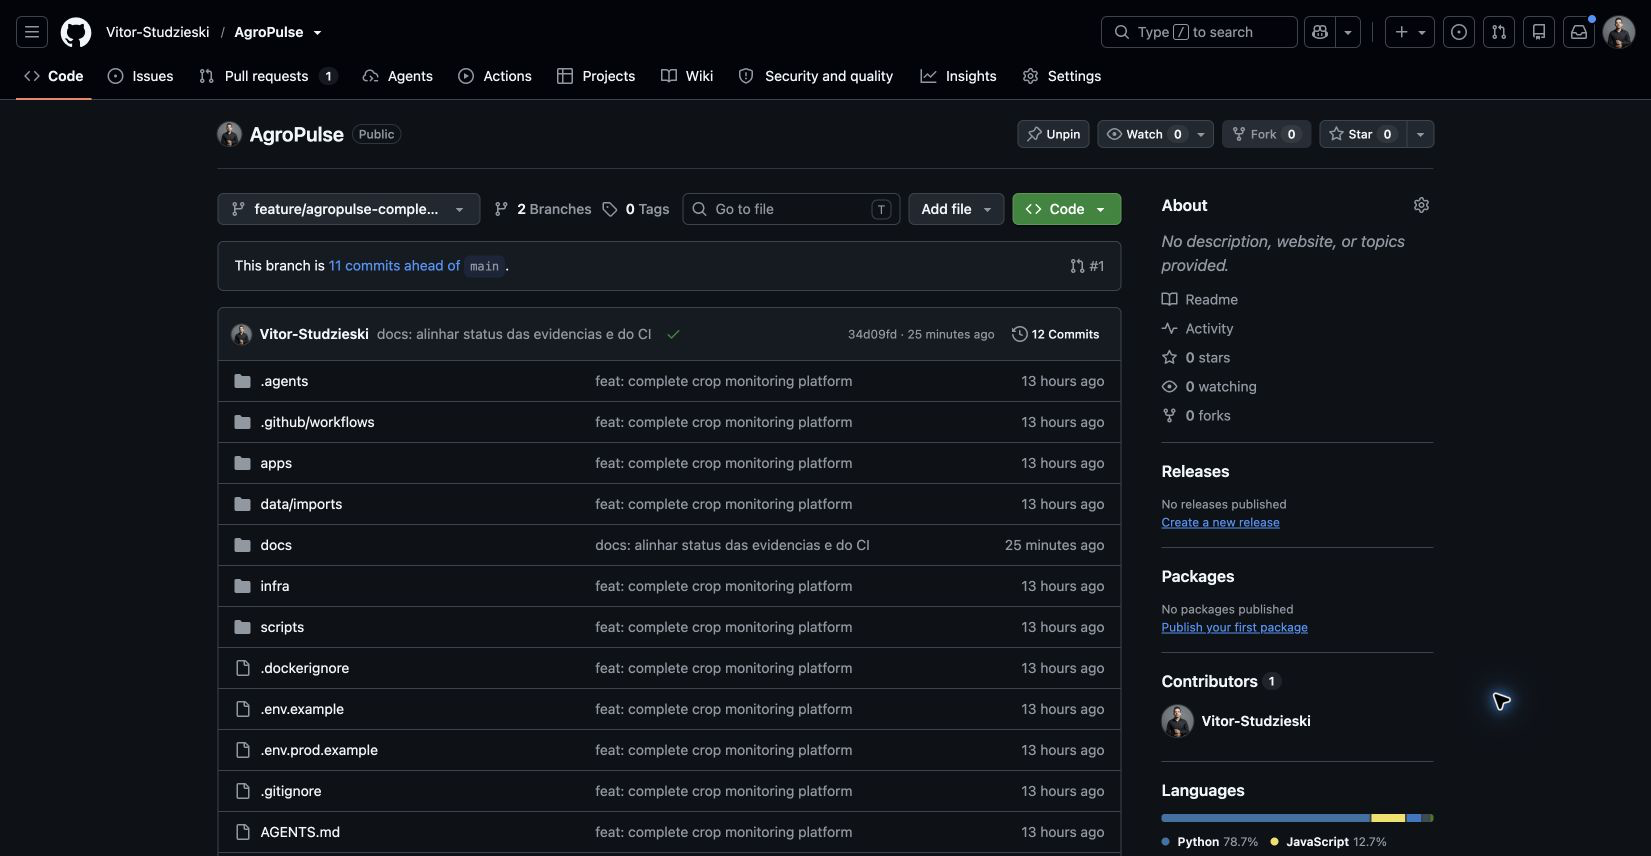
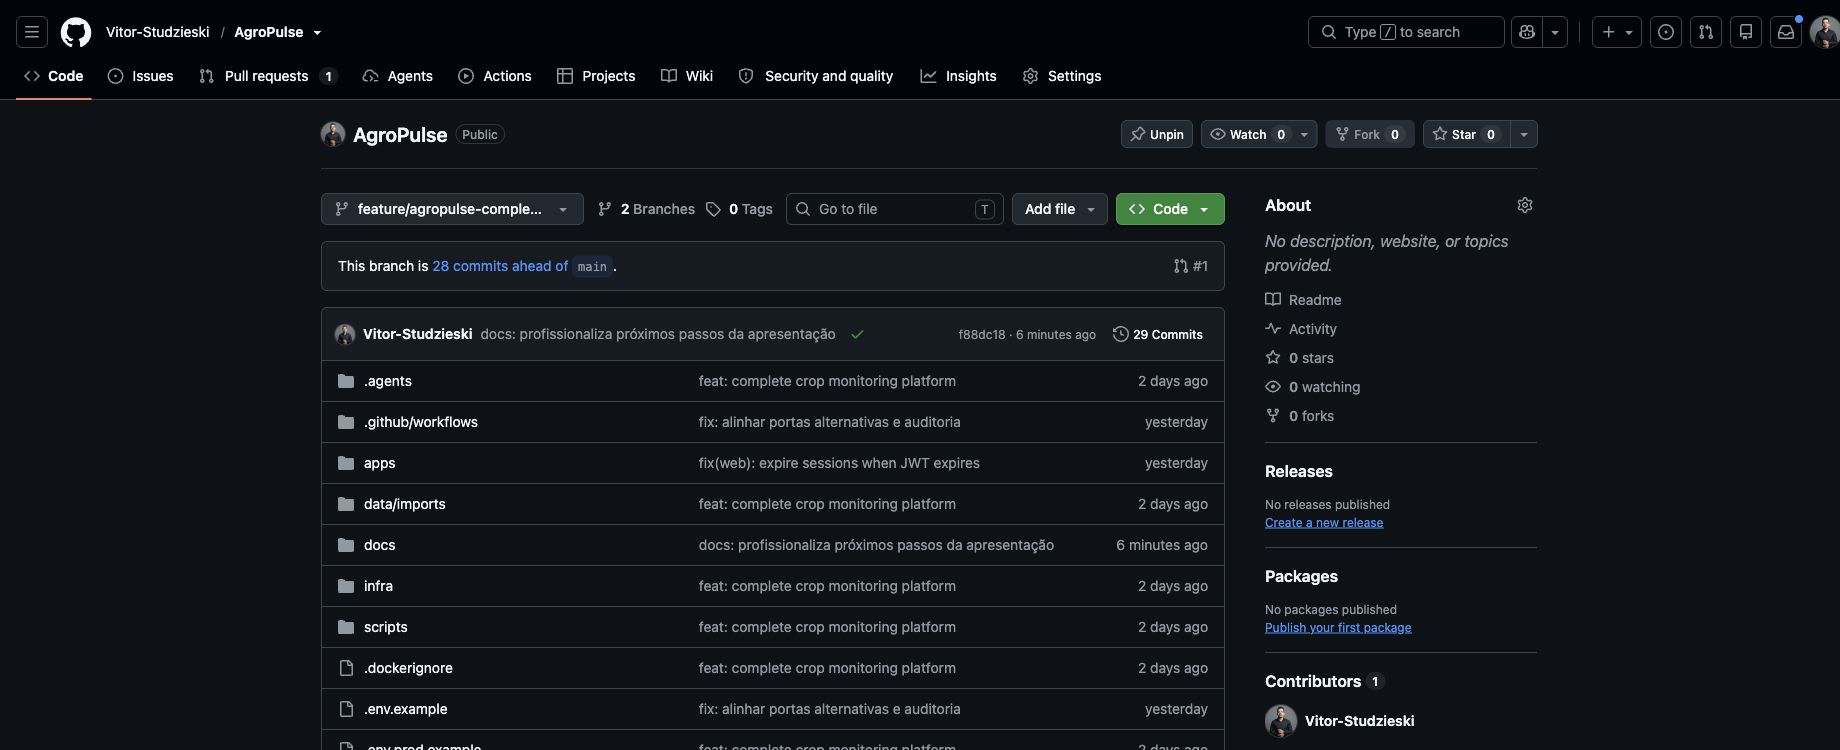
docs: atualiza evidencias atuais do repositorio e CI

diff --git a/docs/evidencias/README.md b/docs/evidencias/README.md
@@ -4,7 +4,7 @@ Salve as capturas listadas no apêndice A de [RELATORIO-MODELO.md](../RELATORIO-
 
 Use apenas dados de demonstração nos prints. Não inclua senhas, tokens, strings de conexão, dados pessoais ou credenciais de serviços. Para GitHub Actions, capture o resultado real depois que o workflow remoto for executado; não produza uma imagem ilustrativa no lugar do check.
 
-Das 28 capturas previstas no apêndice A, os 28 arquivos numerados estão salvos e revisados. As capturas 01–09 foram refeitas como captura direta do viewport do Chrome, sem moldura do navegador. As telas 01–08 vêm da interface da demonstração isolada, mapeada nesta sessão em `http://localhost:34100/`; para reproduzir em portas isoladas, use `WEB_PORT=34100 API_PORT=34101 MONGO_PORT=34102 make demo`. O Compose deriva a URL da API e a origem CORS dessas portas. A captura 09 usa `http://localhost:8000/docs#/infra/health_health_get` e registra a resposta HTTP 200 (`{"status":"ok"}`) de `GET /health`. A contagem na captura 15 é 21.006 leituras no instante da consulta; como o simulador continua ativo, o valor muda durante a execução. A captura 18 confirma `IXSCAN` pelo índice `crop_1`, e a captura 26 mostra a coleção `field_daily_stats` com 24 documentos agregados. `painel-visao-geral.png` é a captura complementar do painel: mostra o histórico anual 2024 da estação INMET A763/Marília a 27,8 km do campus e o ranking municipal do IBGE. As telas de Safras e Operações mostram estados vazios reais da demonstração; não foram criados registros apenas para preencher capturas. A captura 28 registra visualmente o run #23 do commit anterior `34d09fd`; consulte o PR #1 para o status atual do GitHub Actions. Os RAs obrigatórios devem ser inseridos no relatório antes da entrega. A data da apresentação pode ser incluída no roteiro quando for definida; o guia não a exige na capa.
+Das 28 capturas previstas no apêndice A, os 28 arquivos numerados estão salvos e revisados. As capturas 01–09 foram refeitas como captura direta do viewport do Chrome, sem moldura do navegador. As telas 01–08 vêm da interface da demonstração isolada, mapeada nesta sessão em `http://localhost:34100/`; para reproduzir em portas isoladas, use `WEB_PORT=34100 API_PORT=34101 MONGO_PORT=34102 make demo`. O Compose deriva a URL da API e a origem CORS dessas portas. A captura 09 usa `http://localhost:8000/docs#/infra/health_health_get` e registra a resposta HTTP 200 (`{"status":"ok"}`) de `GET /health`. A contagem na captura 15 é 21.006 leituras no instante da consulta; como o simulador continua ativo, o valor muda durante a execução. A captura 18 confirma `IXSCAN` pelo índice `crop_1`, e a captura 26 mostra a coleção `field_daily_stats` com 24 documentos agregados. `painel-visao-geral.png` é a captura complementar do painel: mostra o histórico anual 2024 da estação INMET A763/Marília a 27,8 km do campus e o ranking municipal do IBGE. As telas de Safras e Operações mostram estados vazios reais da demonstração; não foram criados registros apenas para preencher capturas. As capturas 27 e 28 foram atualizadas no Chrome: a 27 mostra a branch pública no commit `f88dc18`, e a 28 mostra os cinco jobs aprovados no run #57 desse commit. Consulte o PR #1 para o status mais recente do GitHub Actions. Os RAs obrigatórios devem ser inseridos no relatório antes da entrega. A data da apresentação pode ser incluída no roteiro quando for definida; o guia não a exige na capa.
 
 ## Conteúdo de cada captura
 
@@ -21,6 +21,6 @@ Use esta lista para conferir o enquadramento antes de marcar um item como conclu
 | `19-geointersects` | Compass mongosh: consultar `fields.boundary` com `$geoIntersects` no ponto do campus `[-50.1994, -22.1110]`; mostrar o talhão de demonstração retornado. |
 | `20-agregacao-media-diaria` | Compass mongosh: média diária de `soil_moisture` agrupada por talhão e dia, conforme consulta em `docs/MODELO-DADOS.md`. |
 | `21-compass-colecoes`, `22-documento-fields`, `23-documento-sensor-reading`, `24-indices-fields`, `25-validacao-farms`, `26-field-daily-stats` | Compass: lista de coleções; documento de `fields`; documento em `sensor_readings`; índices de `fields`; validação de `farms`; documento agregado em `field_daily_stats`. `make demo` executa o rollup inicial. |
-| `27-github-repo`, `28-github-actions-verde` | Branch público `feature/agropulse-completion` e PR #1 aberto. A captura 28 registra os cinco jobs aprovados no run #23 do commit anterior `34d09fd`, portanto é evidência histórica. Consulte o PR para o status atual dos jobs de API, workers, web, schema e Compose. O PR permanece aberto para revisão, sem merge. |
+| `27-github-repo`, `28-github-actions-verde` | A captura 27 mostra a branch pública `feature/agropulse-completion` no commit `f88dc18`. A captura 28 mostra os cinco jobs aprovados no run #57 desse commit. O PR #1 permanece aberto, sem merge; consulte-o para o status do HEAD mais recente. |
 
 Para os itens 15–20, mantenha comando e resposta na mesma captura. Não mostre tokens, senhas, connection strings, dados pessoais ou documentos fora da demonstração. Os itens 15–28 foram conferidos visualmente.

diff --git a/docs/REQUISITOS.md b/docs/REQUISITOS.md
@@ -56,7 +56,7 @@ Esta matriz converte os requisitos do guia de engenharia (seções 2–14) em ev
 - Alertas integrados em stack isolada: uma regra temporária aplicada a um talhão com leituras existentes gerou alerta no worker; a API resolveu e removeu o alerta, e a regra foi apagada.
 - Revalidação de `make demo` em projeto Compose temporário com portas alternativas: API autenticada respondeu 200 para perfil, fazendas, talhões, séries, estações, clima, ranking, leituras, safras, operações, sensores, regras e alertas. A página web respondeu 200, o bundle incluiu a URL da API na porta alternativa e o CORS aceitou a origem da interface. O Mongo registrou 1 fazenda, 3 talhões, 6 sensores, 12.840 leituras de sensores, 1 estação INMET, 8.784 observações horárias, 1.556 registros PAM/SP e 24 resumos. O seed, os importadores e o rollup foram executados novamente; a segunda execução ignorou o backfill existente. O volume e os containers descartáveis foram removidos.
 - Revalidação ponta a ponta em 2026-11-01, com `make demo` em um projeto Docker novo e portas alternativas: o seed criou 3 talhões e 6 sensores; o backfill inseriu 12.096 leituras; os importadores carregaram 8.784 observações INMET de 2024 e 1.556 registros IBGE/PAM de 2023; o rollup gerou 24 resumos diários. API e interface responderam HTTP 200. Com conta aleatória temporária, foram exercitados o CRUD autenticado completo, cálculo de área/centroide, leitura ao vivo do simulador, série horária, clima de 2024, ranking de 10 municípios e geração de alerta pelo worker; webhook permaneceu vazio. Conta, containers e volume temporários foram removidos, preservando a stack principal.
-- O workflow do GitHub Actions executa em pushes e pull requests; o status do HEAD e os resultados atuais dos cinco jobs são consultados no [PR #1](https://github.com/Vitor-Studzieski/AgroPulse/pull/1). A captura 28 mantém o registro visual histórico do run #23, no commit anterior `34d09fd`.
+- O workflow do GitHub Actions executa em pushes e pull requests; o status do HEAD e os resultados atuais dos cinco jobs são consultados no [PR #1](https://github.com/Vitor-Studzieski/AgroPulse/pull/1). A captura 28 mostra os cinco jobs aprovados no run [#57](https://github.com/Vitor-Studzieski/AgroPulse/actions/runs/41339698655), para o commit `f88dc18`.
 - Os três Compose isolados iniciaram. Web/Mock API e API isolada responderam 200; API e imagem Render passaram health GET/HEAD e `/docs`. O worker isolado iniciou com 6 sensores, 3 regras e leituras geradas.
 - Os containers de validação foram encerrados com `down` normal; os volumes foram preservados. `git diff --check` passou.
 

diff --git a/docs/RELATORIO-MODELO.md b/docs/RELATORIO-MODELO.md
@@ -138,7 +138,7 @@ Esta seção registra as verificações executadas e as evidências disponíveis
 | Demonstração em banco vazio | `make demo` em projeto Compose isolado criou seed, 3 talhões e 6 sensores; backfill gerou 12.096 leituras sintéticas de sete dias; importou INMET A763 (8.784 leituras) e PAM/SP (1.556 registros); o rollup criou 24 documentos em `field_daily_stats`. A API autenticada retornou clima 2024 e top 10 do ranking 2023. A segunda execução ignorou o backfill existente e não duplicou os resumos diários; a contagem observada após a simulação ao vivo foi 12.840 leituras. | 2026-10-31; o projeto e volume temporários foram removidos após a conferência |
 | Fluxo CRUD integrado | Conta sintética criada e atualizada; fazenda, talhão, safra, operação, sensor e regra exercitados por API; worker gerou alerta a partir de leituras existentes, API resolveu e removeu o evento | Stack local isolada em 2026-10-31; conta e dados descartáveis removidos após a validação |
 | Telemetria, clima, produção e alerta em fluxo integrado | `make demo` em um projeto Compose isolado novo: 12.096 leituras de backfill; 8.784 observações INMET 2024; 1.556 registros IBGE/PAM 2023; 24 resumos. Uma conta aleatória temporária percorreu CRUD autenticado de fazenda, talhão GeoJSON, safra, operação, sensor e regra; a área e o centroide foram calculados. O simulador forneceu leitura ao vivo; série horária, clima anual e ranking de 10 municípios responderam; o worker gerou alerta com webhook vazio. | 2026-11-01; conta, containers e volume temporários removidos; stack principal preservada |
-| GitHub Actions remoto | Cinco jobs: schema, workers, API, web e Compose aprovados | Run [#53](https://github.com/Vitor-Studzieski/AgroPulse/actions/runs/41337498639) do commit `41ca6ba`, em 2026-11-01. A captura 28 registra visualmente o run #23 de um commit anterior e é apenas histórica. |
+| GitHub Actions remoto | Cinco jobs: schema, workers, API, web e Compose aprovados | Run [#57](https://github.com/Vitor-Studzieski/AgroPulse/actions/runs/41339698655) do commit `f88dc18`, em 2026-11-01; a captura 28 mostra esse resultado. Consulte o PR #1 para o status do HEAD mais recente. |
 
 ## 8. Demonstração
 

diff --git a/docs/PLANO.md b/docs/PLANO.md
@@ -4,7 +4,7 @@ Prazo de entrega: **16/11/2026**. A data da apresentação no laboratório deve 
 
 ## Responsabilidade pelo projeto
 
-Vitor Studzieski responde pelo desenvolvimento, integração e validação de todas as frentes: API, interface, workers e ingestão, MongoDB, infraestrutura, CI e documentação técnica. A divisão de falas e tarefas acadêmicas entre os três integrantes pode ser ajustada pelo grupo, mas não representa donos técnicos separados por diretório.
+Vitor Studzieski é responsável pelo resultado integral do projeto e coordena todas as frentes técnicas e entregas acadêmicas: código, integração, validação, infraestrutura, CI, evidências, relatório e apresentação. O grupo pode combinar a divisão das falas, mas a responsabilidade final permanece com Vitor; não há donos técnicos separados por diretório.
 
 ## Cronograma
 
